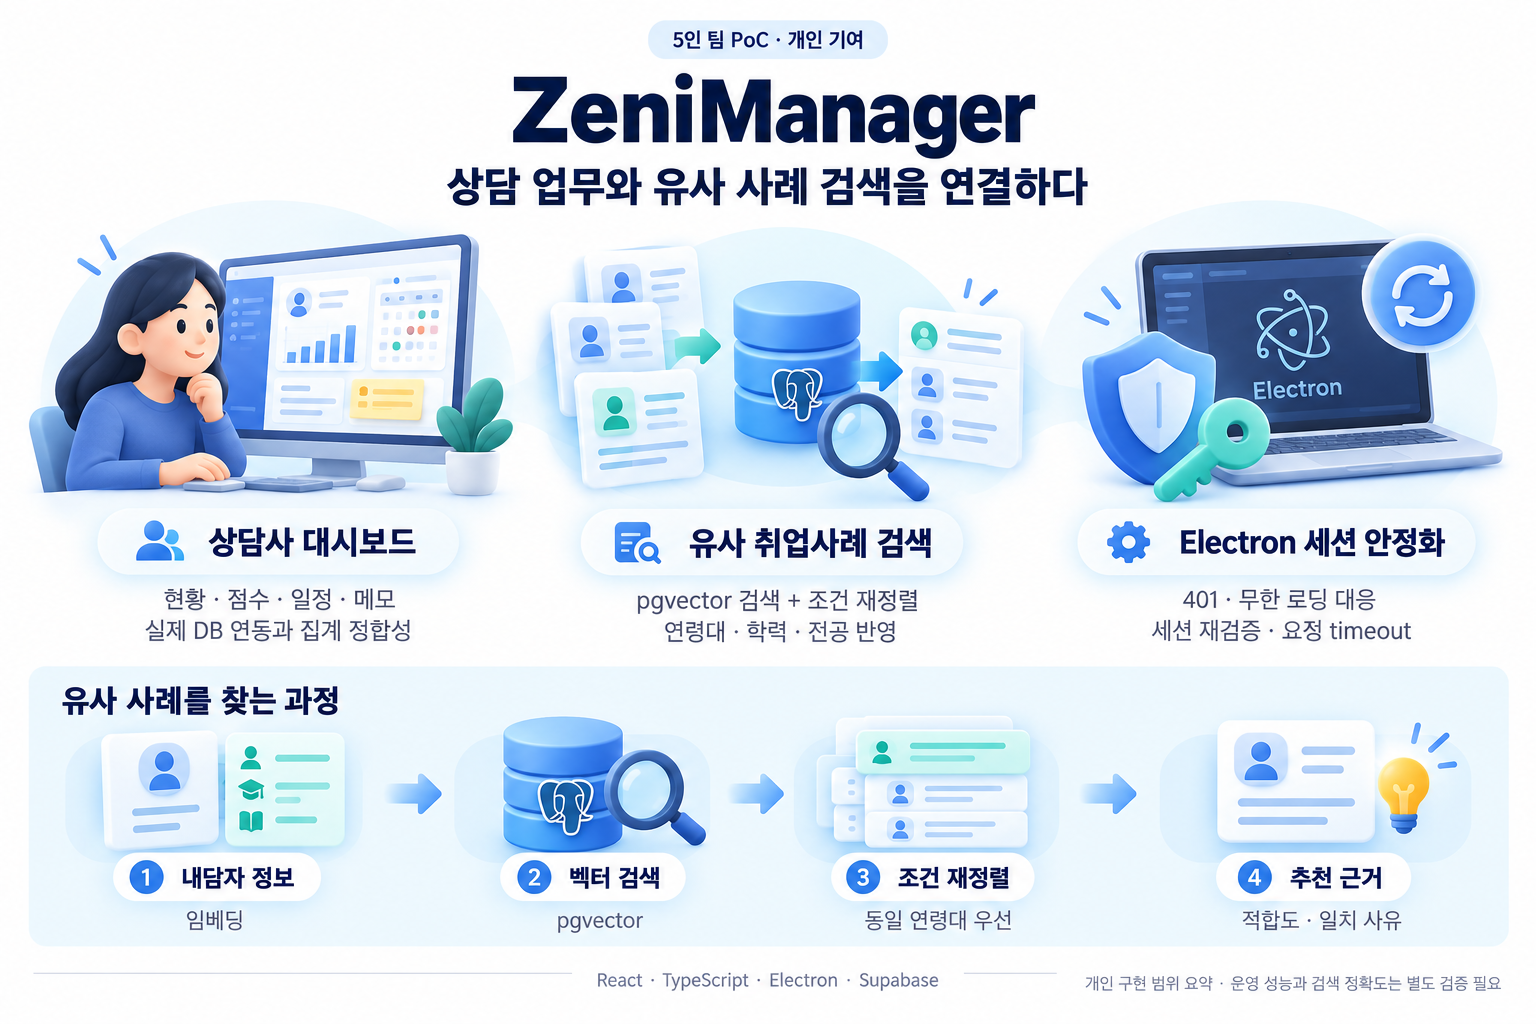
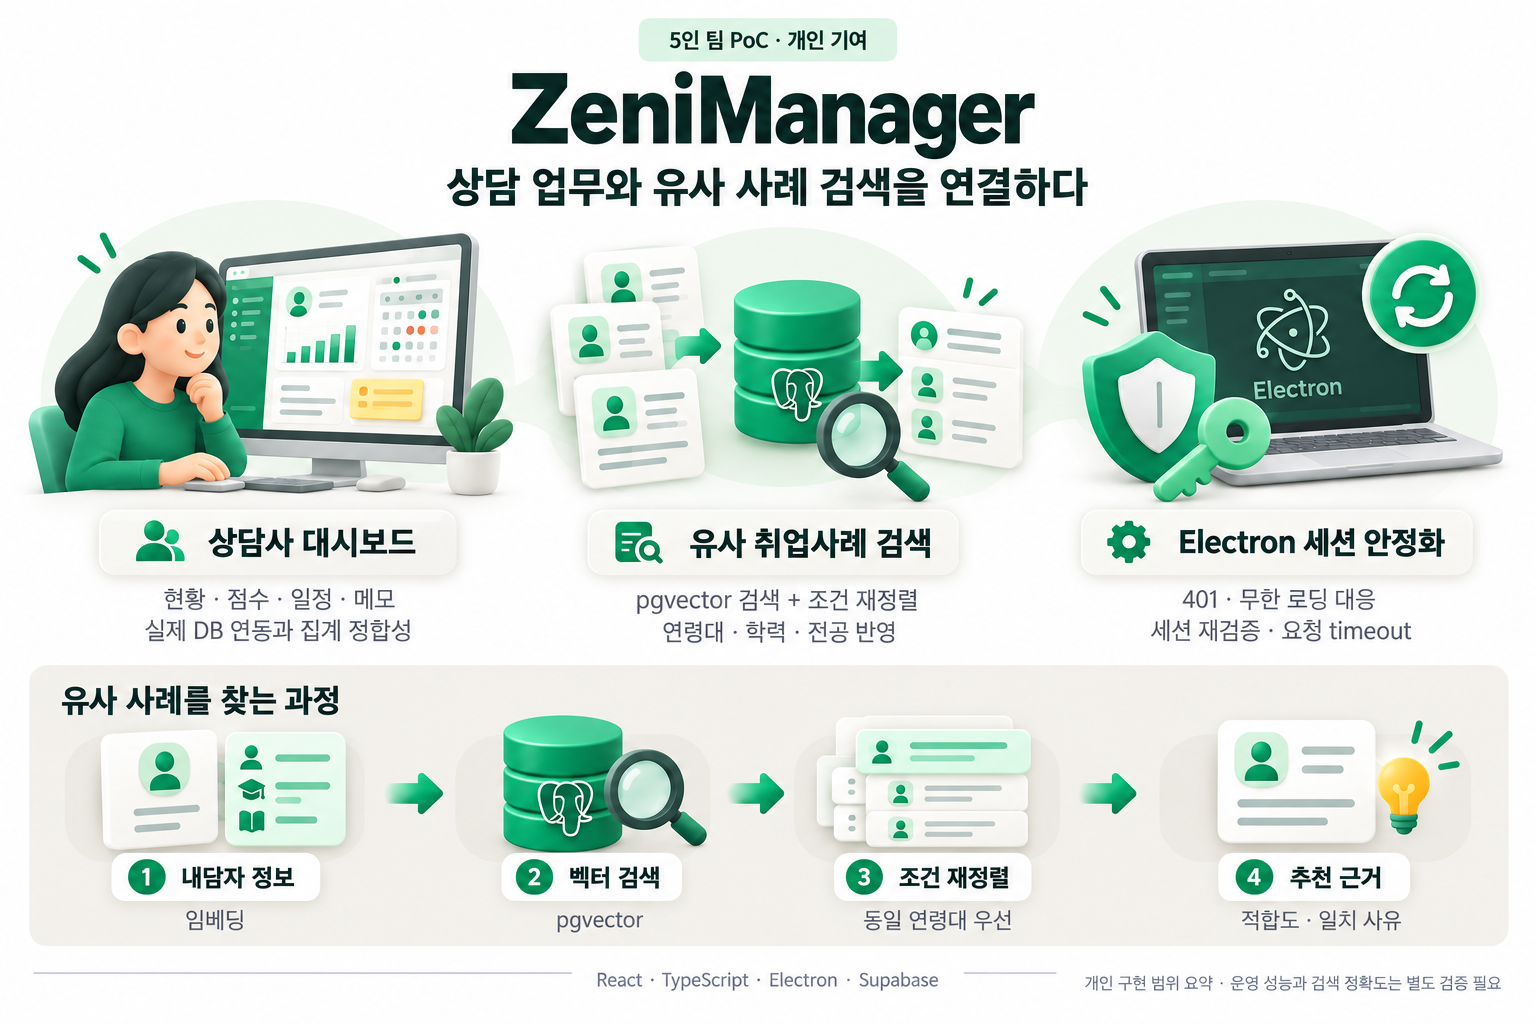
docs: apply green design tokens to portfolio infographic

diff --git a/docs/portfolio/src/contribution-infographic-prompt.md b/docs/portfolio/src/contribution-infographic-prompt.md
@@ -1,8 +1,52 @@
 # ZeniManager 포트폴리오 인포그래픽 제작 기록
 
+## 디자인 토큰 수정
+
+- 메인: `#009C64`, 전체 배경: 흰색 `#FFFFFF`
+- 보조 패널: `#F0EEE9` (사용자 입력 `FOEEE9`를 HEX로 해석)
+- 라벨 모서리: small radius
+- 글꼴 생성 지시: Noto Sans / Noto Sans KR. 래스터 생성 결과의 실제 글꼴 파일 일치는 미확인.
+- 취소 연그레이 / 삭제 Tomato `#FF6347`: 해당 버튼이 없어 사용하지 않음
+- 수정 도구: 기본 제공 image_gen, 기존 PNG를 입력으로 편집
+
+### 수정 프롬프트
+
+```text
+Edit the supplied ZeniManager infographic. Preserve its 1536x1024 landscape composition, all three contribution illustrations, search flow steps, all Korean and English wording verbatim, their order, legibility and correct spelling. Preserve the polished soft dimensional 3D clay illustration quality. This is a visual design-token revision only, not a redesign of the information.
+Apply these design tokens throughout:
+- Main brand color #009C64 emerald green, replacing the current blue/turquoise as the dominant accent on counselor clothes, charts, database cylinders, search arrows, profile icons, shield, reconnect icon, headings accents and badges. Highlights may be pale green, shadows darker green. Avoid dominant blue or navy styling. Main headings use very dark charcoal green #16352A for readability.
+- Entire outer canvas background PURE WHITE #FFFFFF, without a full-canvas beige/gray tint.
+- Secondary panel surfaces warm off-white #F0EEE9, particularly bottom search-flow strip and subtle local backgrounds. White profile cards with restrained warm-gray borders. Gentle neutral shadows; green accents, no blue glow.
+- Typography: Noto Sans for Latin, Noto Sans KR for Korean, sober modern sans-serif. Bold section titles, medium body text. Render Korean text accurately and clearly. Preserve complete footer text.
+- All button-like labels, title plates and badges now use small rounded rectangular corners (approximately 6px), replacing long pill shapes. Keep 3D physical objects naturally rounded. No actual new action buttons: the cancellation token light gray and deletion token tomato #FF6347 are reserved UI tokens; there are NO cancel/delete controls in this infographic, so do not add them or introduce arbitrary red decorations.
+Content must remain EXACTLY as in input:
+"5인 팀 PoC · 개인 기여"
+"ZeniManager"
+"상담 업무와 유사 사례 검색을 연결하다"
+"상담사 대시보드"
+"현황 · 점수 · 일정 · 메모"
+"실제 DB 연동과 집계 정합성"
+"유사 취업사례 검색"
+"pgvector 검색 + 조건 재정렬"
+"연령대 · 학력 · 전공 반영"
+"Electron 세션 안정화"
+"401 · 무한 로딩 대응"
+"세션 재검증 · 요청 timeout"
+"유사 사례를 찾는 과정"
+"내담자 정보" / "임베딩"
+"벡터 검색" / "pgvector"
+"조건 재정렬" / "동일 연령대 우선"
+"추천 근거" / "적합도 · 일치 사유"
+"React · TypeScript · Electron · Supabase"
+"개인 구현 범위 요약 · 운영 성능과 검색 정확도는 별도 검증 필요"
+Keep existing small step numbers 1,2,3,4. Keep Electron wording on laptop screen. No added text, no design token swatches, no watermark, no invented claims. Generous whitespace. White opaque background.
+```
+
+## 최초 생성
+
 - 도구: 기본 제공 image_gen
 - 결과: `../contribution-infographic.png`
-- 참고: 사용자가 제공한 actor-critic.png의 입체 일러스트와 색상 스타일
+- 참고: 사용자가 제공한 actor-critic.png의 입체 일러스트 스타일. 최종 색상은 위 디자인 토큰으로 수정.
 - 아래 프롬프트로 생성한 후 한글 문구와 흐름을 육안 확인했습니다.
 
 ```text
